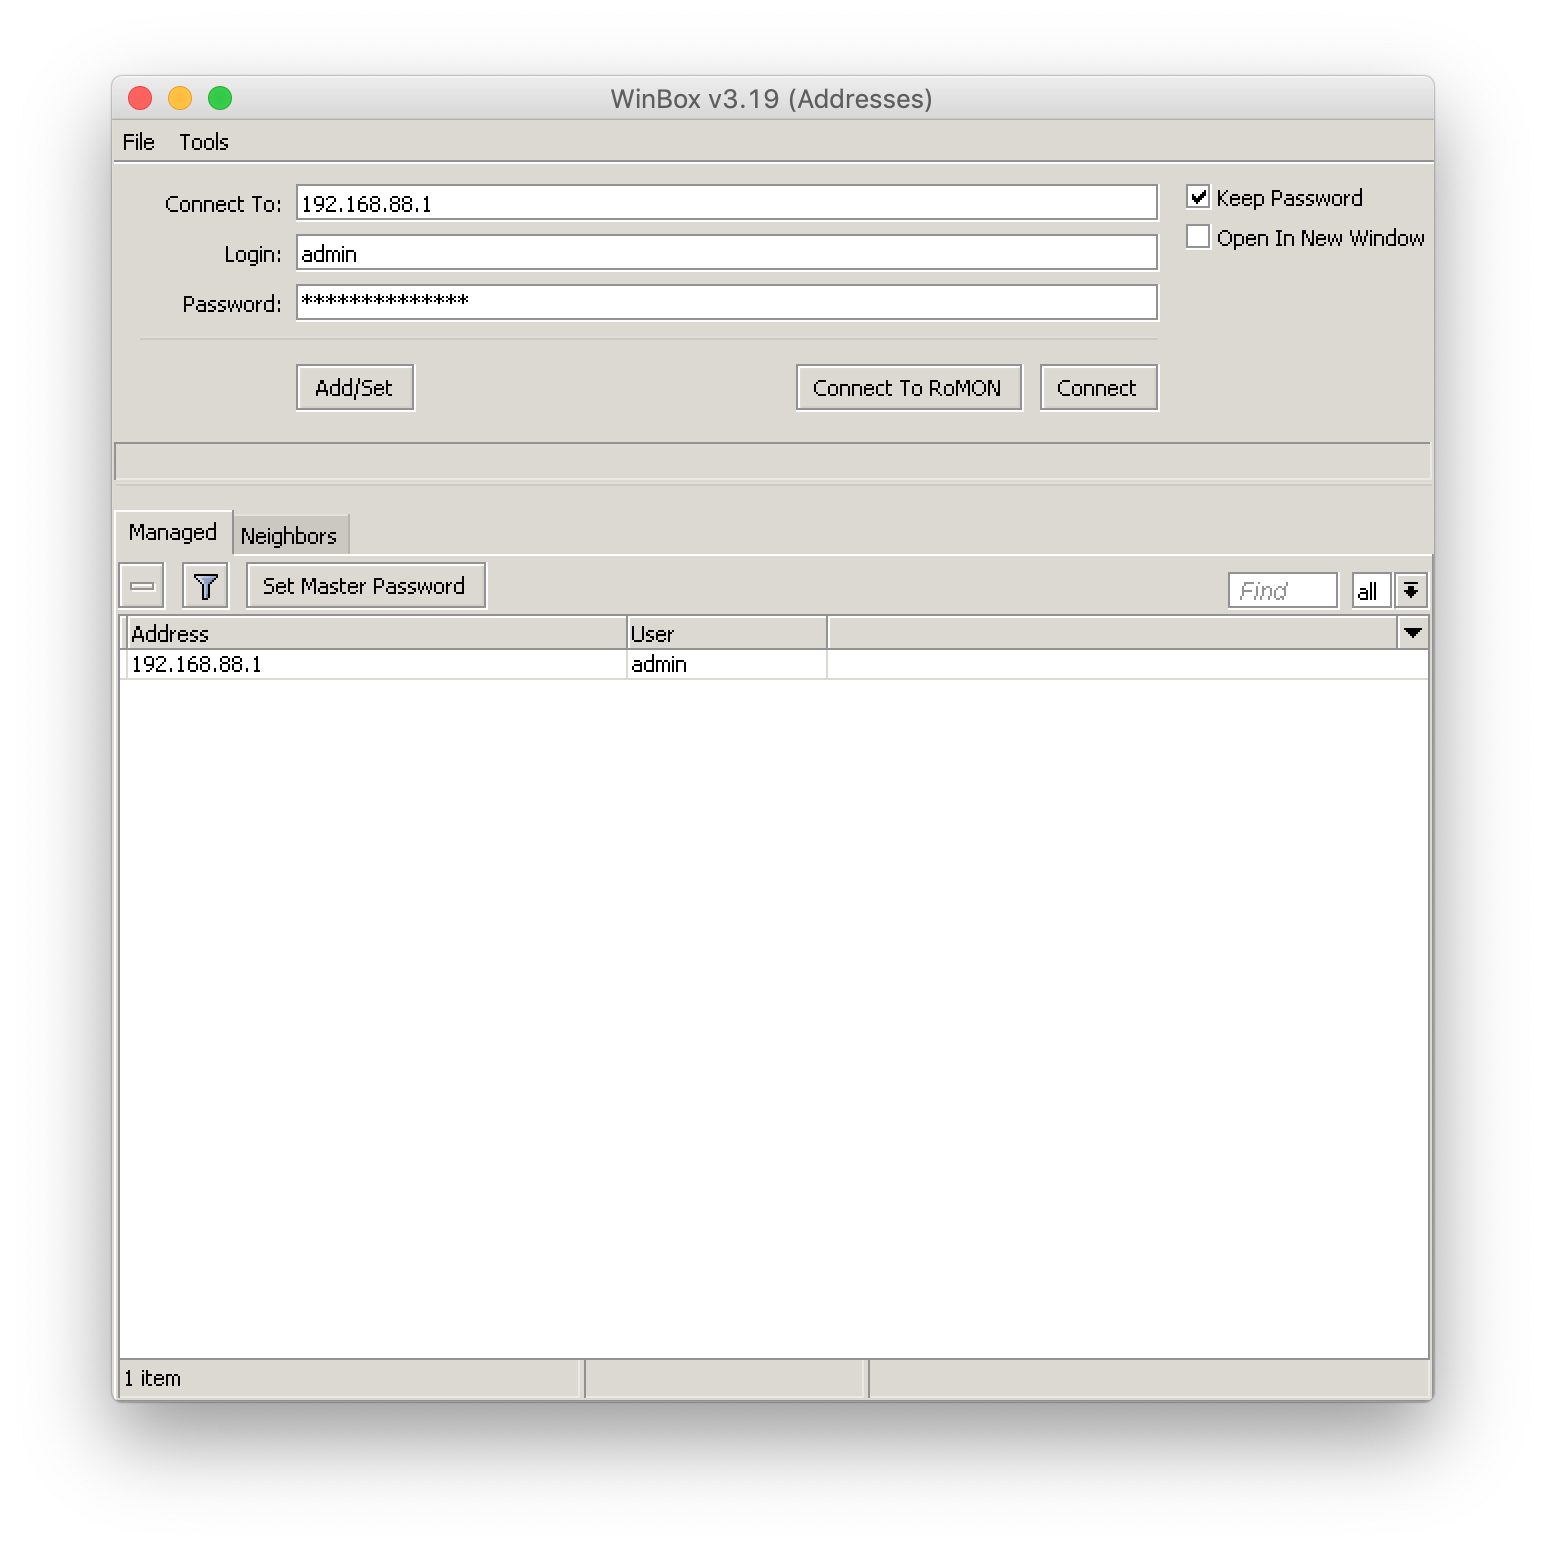
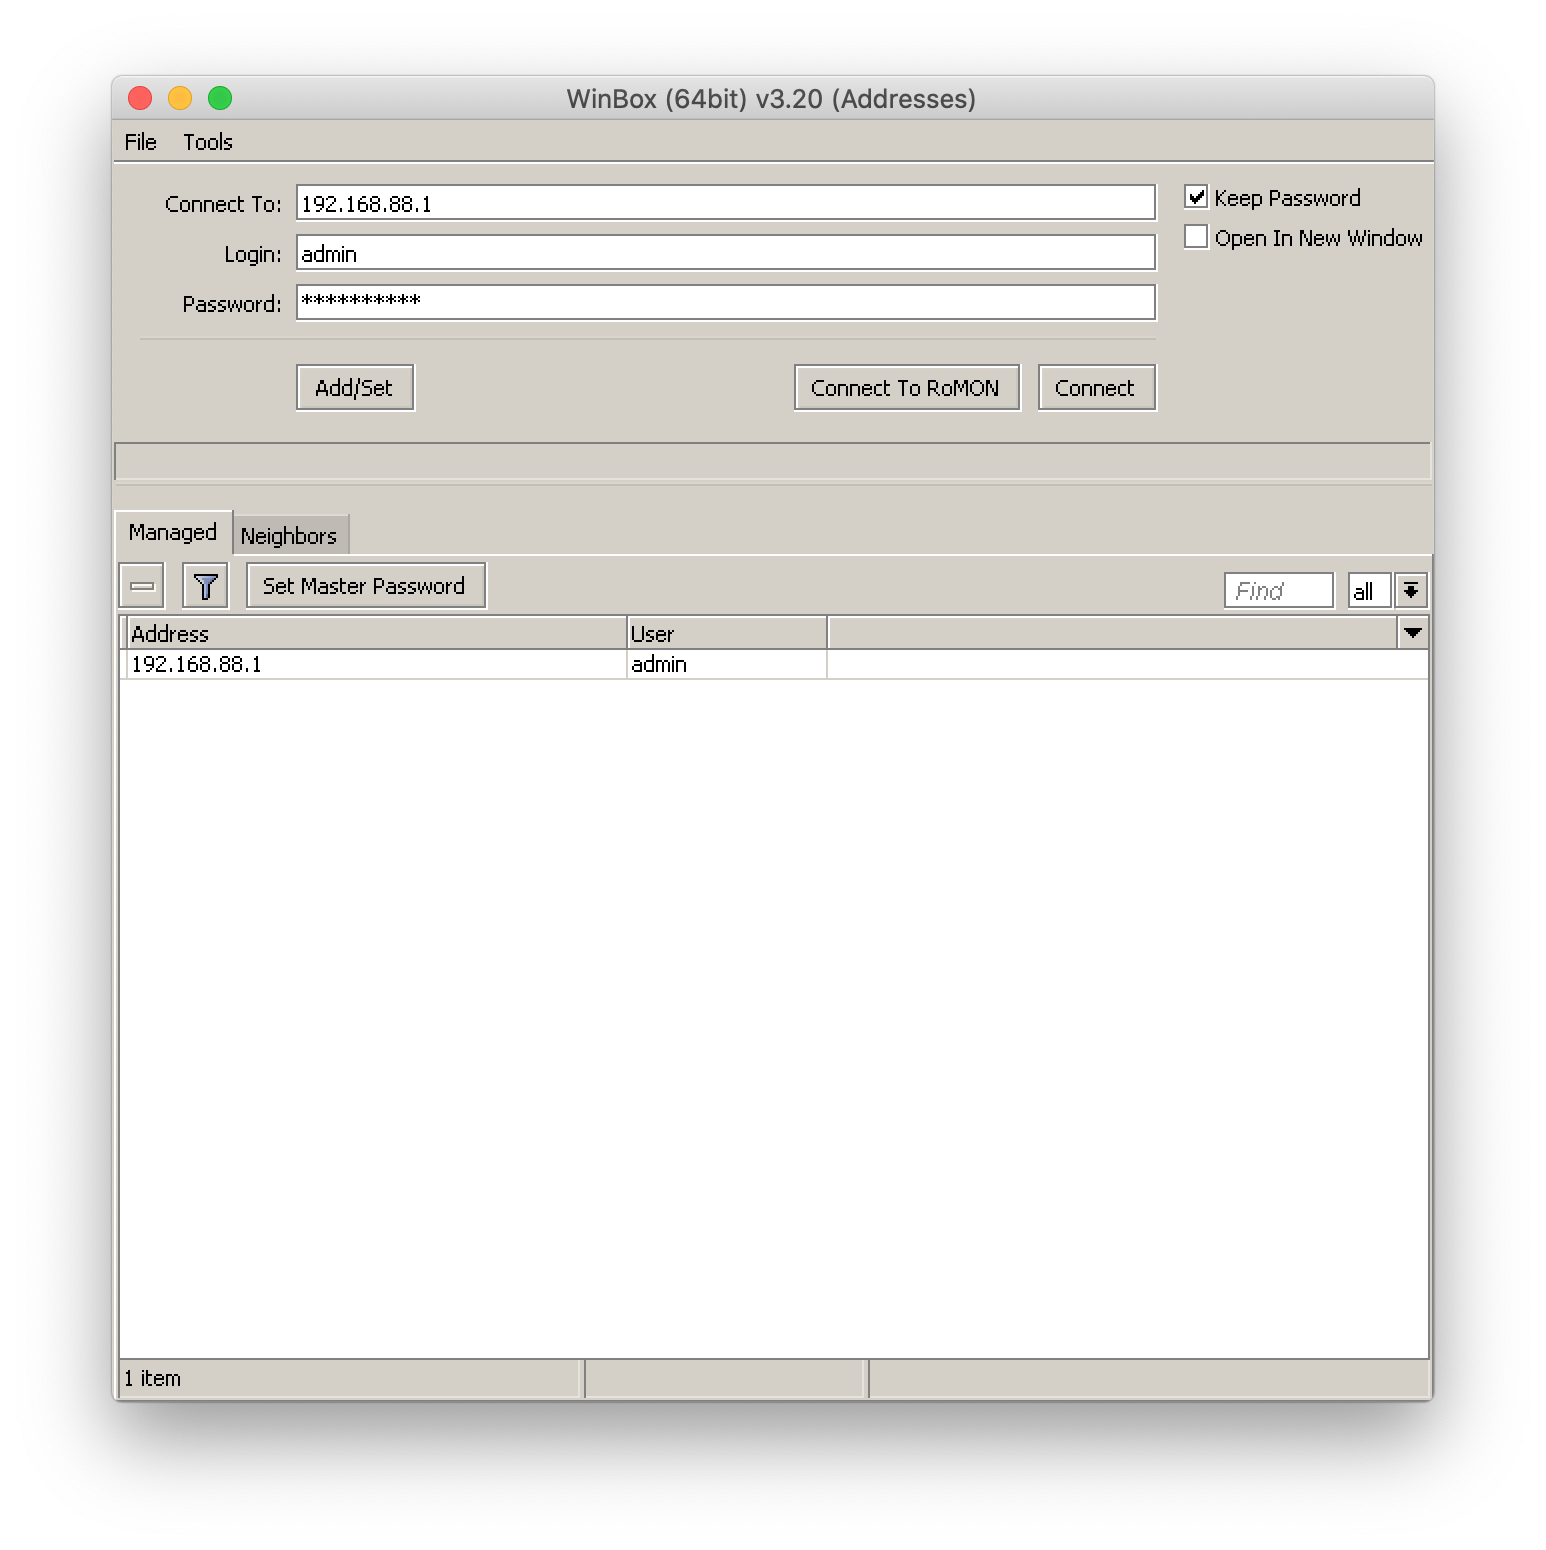
Update readme

diff --git a/README.md b/README.md
@@ -2,8 +2,10 @@
 
 ![Downloads count](https://img.shields.io/github/downloads/nrlquaker/winbox-mac/total.svg)
 
-winbox-mac is [MikroTik](https://mikrotik.com) Winbox converted to macOS app using [WineBottler](http://winebottler.kronenberg.org).
-Icon is from [mriza/winbox-installer](https://github.com/mriza/winbox-installer/tree/master/icons).
+<img src="icon.png" width="200" align="middle">
+
+winbox-mac is [MikroTik](https://mikrotik.com) Winbox bundled into macOS app with Wine compiled by [Mike Kronenberg](http://winebottler.kronenberg.org/specifications). Wine was cleaned up of unneeded for Winbox files.
+Icon is provided by [Lucas di Lucca](https://github.com/luccaccine).
 
 ## Installation
 
@@ -13,17 +15,25 @@ Can be easily installed with [Homebrew Cask](https://caskroom.github.io):
 brew cask install nrlquaker-winbox
 ```
 
+There are two dependencies: [freetype](https://www.freetype.org/index.html) and [xquarts](https://www.xquartz.org). Installing from `brew cask` installes them automatically.
+
 ## Update
 
 Recommended way to update is to use winbox inner updater: `Tools -> Check For Updates`. If you want to update using `brew cask` please check [Notes](#notes).
 
 ## Notes
 
-Managed addresses are saved to `~/Library/Application Support/com.mikrotik.winbox_$(id)`. The id is different for each version of the app. So if you want keep them after updating not with winbox inner updater, you have to save them in the old version using `Tools -> Export...` then load in the new one with `Tools -> Import...`
+- Check [this document](UNVERIFIED_DEVELOPER.md) for instructions how to remove "`winbox64.exe` cannot be opened because the developer cannot be verified" warning message.
+- Managed addresses are saved to `~/Library/Application Support/com.mikrotik.winbox_$(id)`. The id is different for each version of the app. So if you want to keep them after updating not with winbox inner updater, you have to save them in the old version using `Tools -> Export...` then load in the new one with `Tools -> Import...`.
+- Opening file browsing windows freezes `Winbox-mac`. Its [known issue](https://forum.mikrotik.com/viewtopic.php?f=2&t=152795&p=754827#p755159) and related to `Catalina` or `Wine64`.
+- To keep managed address between update just copy `Addresses.cdb`. For example to copy from Winbox-mac 3.19 to 3.20 run
+   ```sh
+cp ~/Library/Application\ Support/com.mikrotik.winbox_156313927421589/drive_c/users/winbox/Application\ Data/Mikrotik/Winbox/Addresses.cdb ~/Library/Application\ Support/com.mikrotik.winbox_320/drive_c/users/`id -un`/Application Data/Mikrotik/Winbox
+   ```
 
 ## Version
 
-Current version is based on [Winbox 3.19](https://download.mikrotik.com/routeros/winbox/3.19/winbox.exe)
+Current version is based on [Winbox 3.20](https://download.mikrotik.com/winbox/3.20/winbox64.exe)
 
 ## Screenshot
 

diff --git a/UNVERIFIED_DEVELOPER.md b/UNVERIFIED_DEVELOPER.md
@@ -1,0 +1,13 @@
+#Unverified developer warning
+
+If you want remove this warning
+
+![winbox-mac screenshot](unverified_developer/warning.png)
+
+Open `System Preferences -> Security & Privacy -> General` and click `Allow anyway` near `winbox64.exe`
+
+![winbox-mac screenshot](unverified_developer/system_preferences.png)
+
+Next time you see warning just click `Open` to not show it again.
+
+![winbox-mac screenshot](unverified_developer/warning2.png)
